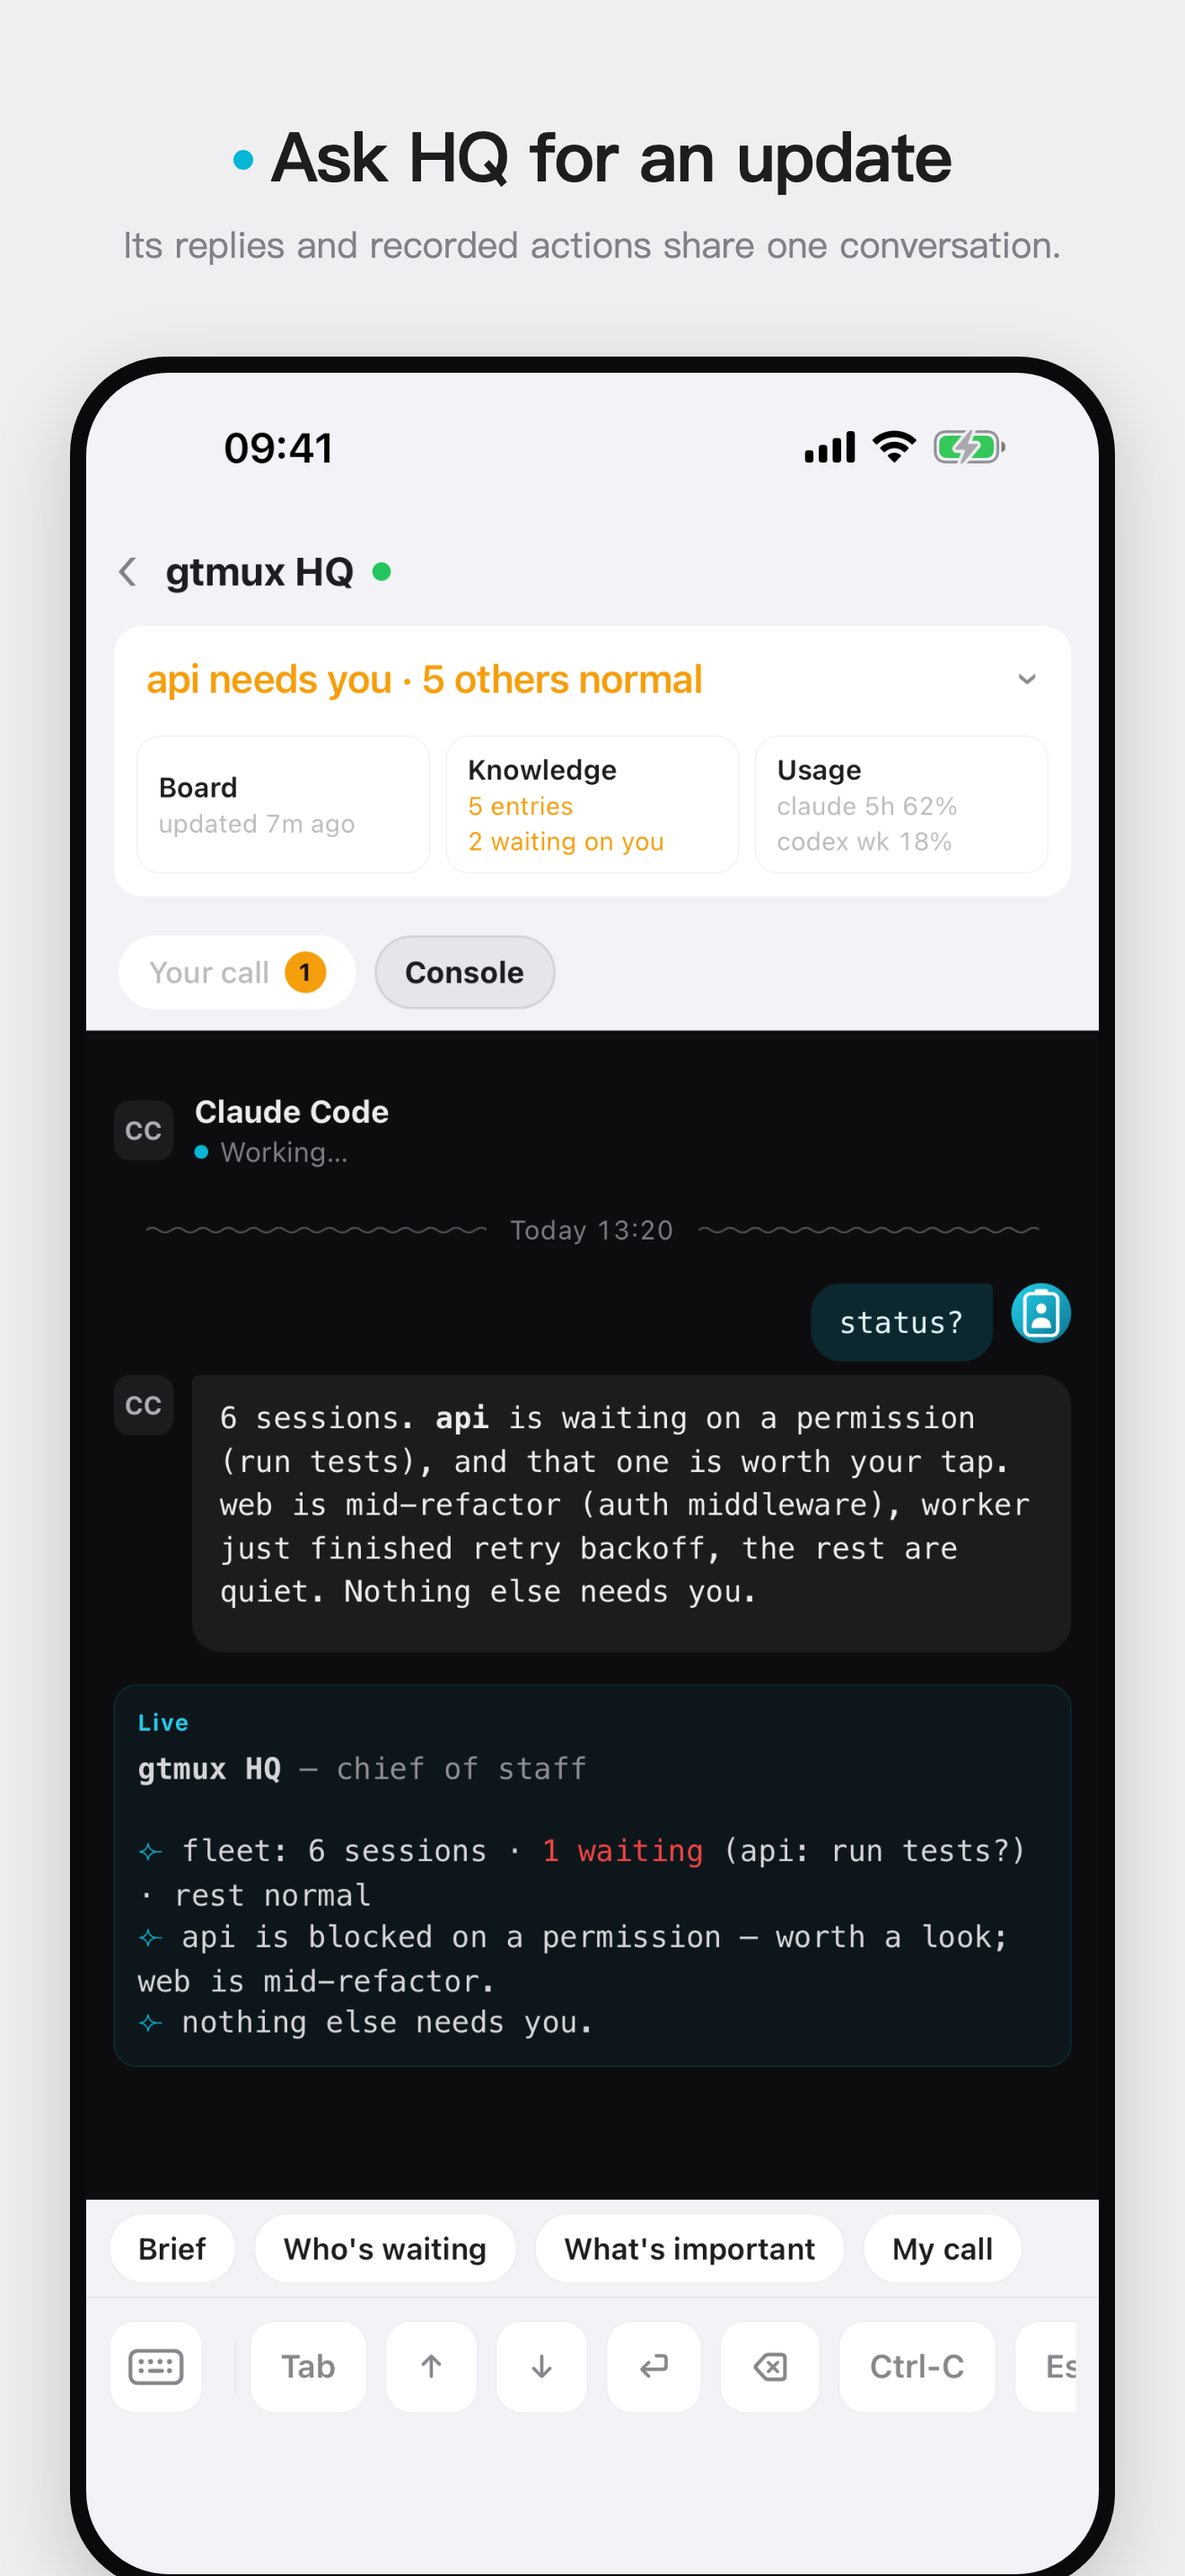
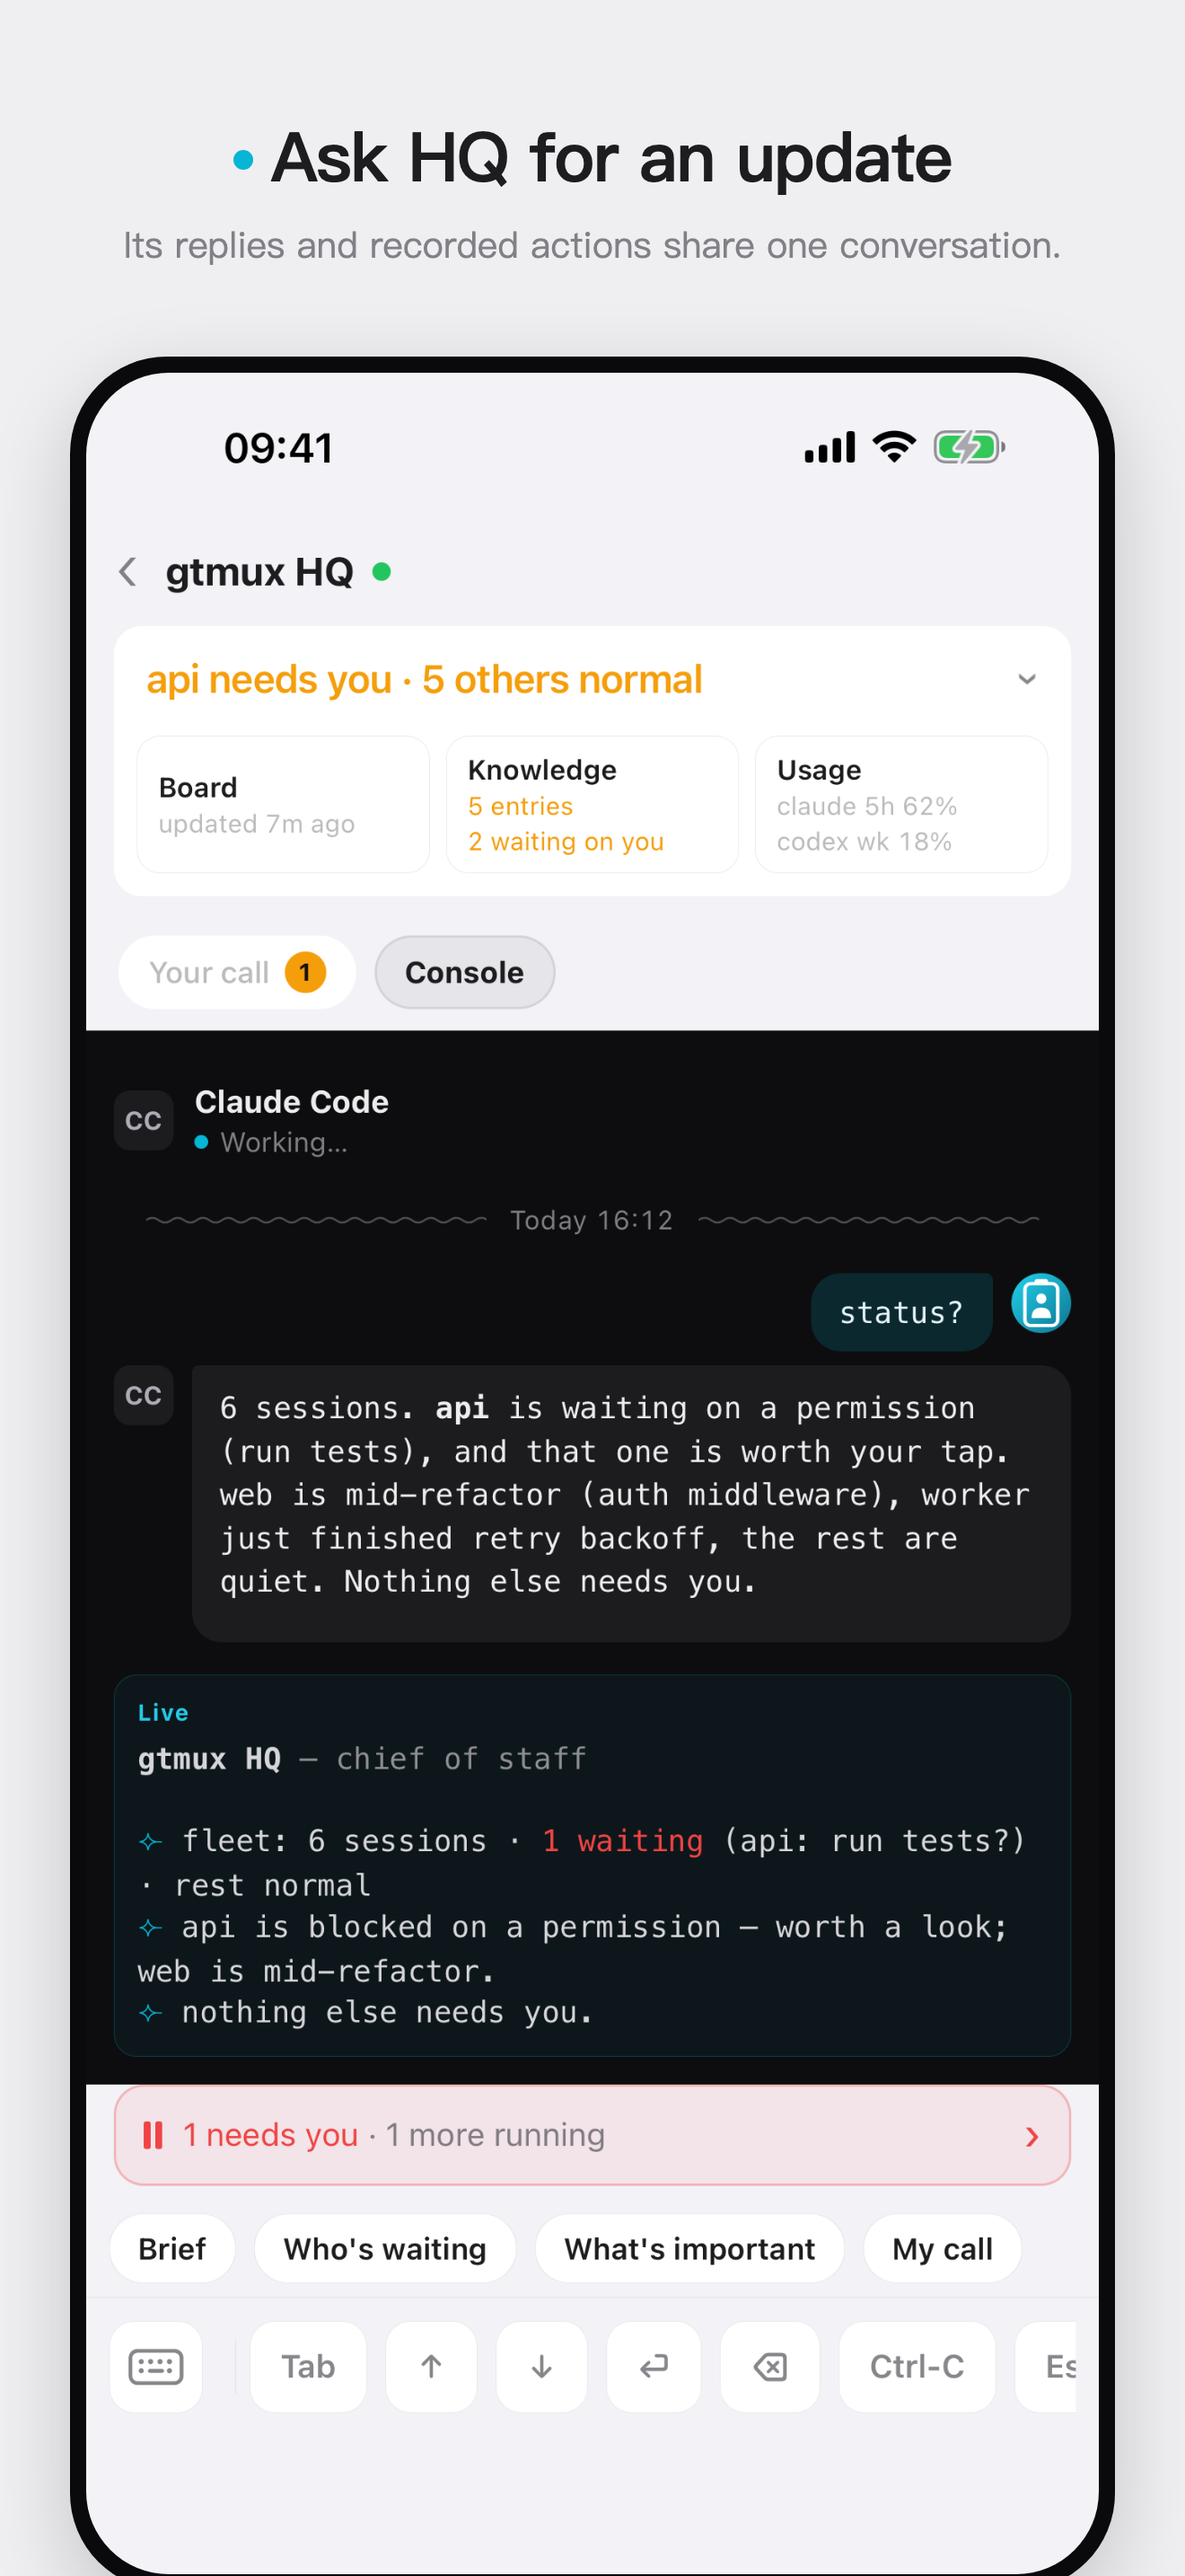
chore(mobile): prepare 1.0.57 App Store build (#1230)

diff --git a/mobileapp/src/releaseNotes.ts b/mobileapp/src/releaseNotes.ts
@@ -12,6 +12,25 @@ export interface ReleaseNote {
 
 export const RELEASE_NOTES: ReleaseNote[] = [
   {
+    version: '1.0.57',
+    en: [
+      'HQ and sessions',
+      '- The HQ page on phone and iPad now shows background tasks. Tap a task to open its session.',
+      '- Codex sessions leave the working state promptly after a turn ends.',
+      'iPad',
+      '- The app opens a regular session first. Task and share panels stay at a readable width on a large screen.',
+      'Update gtmux on your Mac for the HQ and Codex improvements.',
+    ],
+    zh: [
+      'HQ 与会话',
+      '- 手机和 iPad 的 HQ 页面会显示后台任务，点任务可打开对应会话。',
+      '- Codex 回合结束后，会话会及时退出「工作中」。',
+      'iPad',
+      '- 首次打开优先显示普通会话；任务清单和分享面板在大屏上保持合适宽度。',
+      'HQ 和 Codex 相关改进需要更新 Mac 端 gtmux。',
+    ],
+  },
+  {
     version: '1.0.56',
     en: [
       'Connection',

diff --git a/mobileapp/e2e/__tests__/appstore-shots.test.ts b/mobileapp/e2e/__tests__/appstore-shots.test.ts
@@ -113,6 +113,10 @@ gated('app store demo shots', () => {
       {url: 'ana-mac.local:8765', token: 'demo', name: "Ana's Mac", scope: 'guest'},
     ]);
     await launchWithFlags({GTMUX_DEBUG_NO_PUSH: '1', GTMUX_DEBUG_SHOT_MODE: '1', GTMUX_DEBUG_SERVERS: servers});
+    // A release on an already-used simulator can open What's New on this second
+    // cold launch. Dismiss it before looking for the switch behind the modal.
+    const whatsNewDismiss = driver.$(`~${LANG === 'zh' ? '知道了' : 'Got it'}`);
+    if (await whatsNewDismiss.isDisplayed()) await whatsNewDismiss.click();
     // The first seeded Mac is active, so the app opens on its radar — hop to the Servers
     // page via the header's server chip (the two-track My-Macs / Guests list).
     const chip = driver.$(`~${TestIds.radar.serverChip}`);

diff --git a/mobileapp/src/version.ts b/mobileapp/src/version.ts
@@ -1,3 +1,3 @@
 // Generated by scripts/set-version.sh from the latest git tag — do not edit by
 // hand. Committed so a fresh checkout builds; the device-build regenerates it.
-export const APP_VERSION = '1.0.56';
+export const APP_VERSION = '1.0.57';
